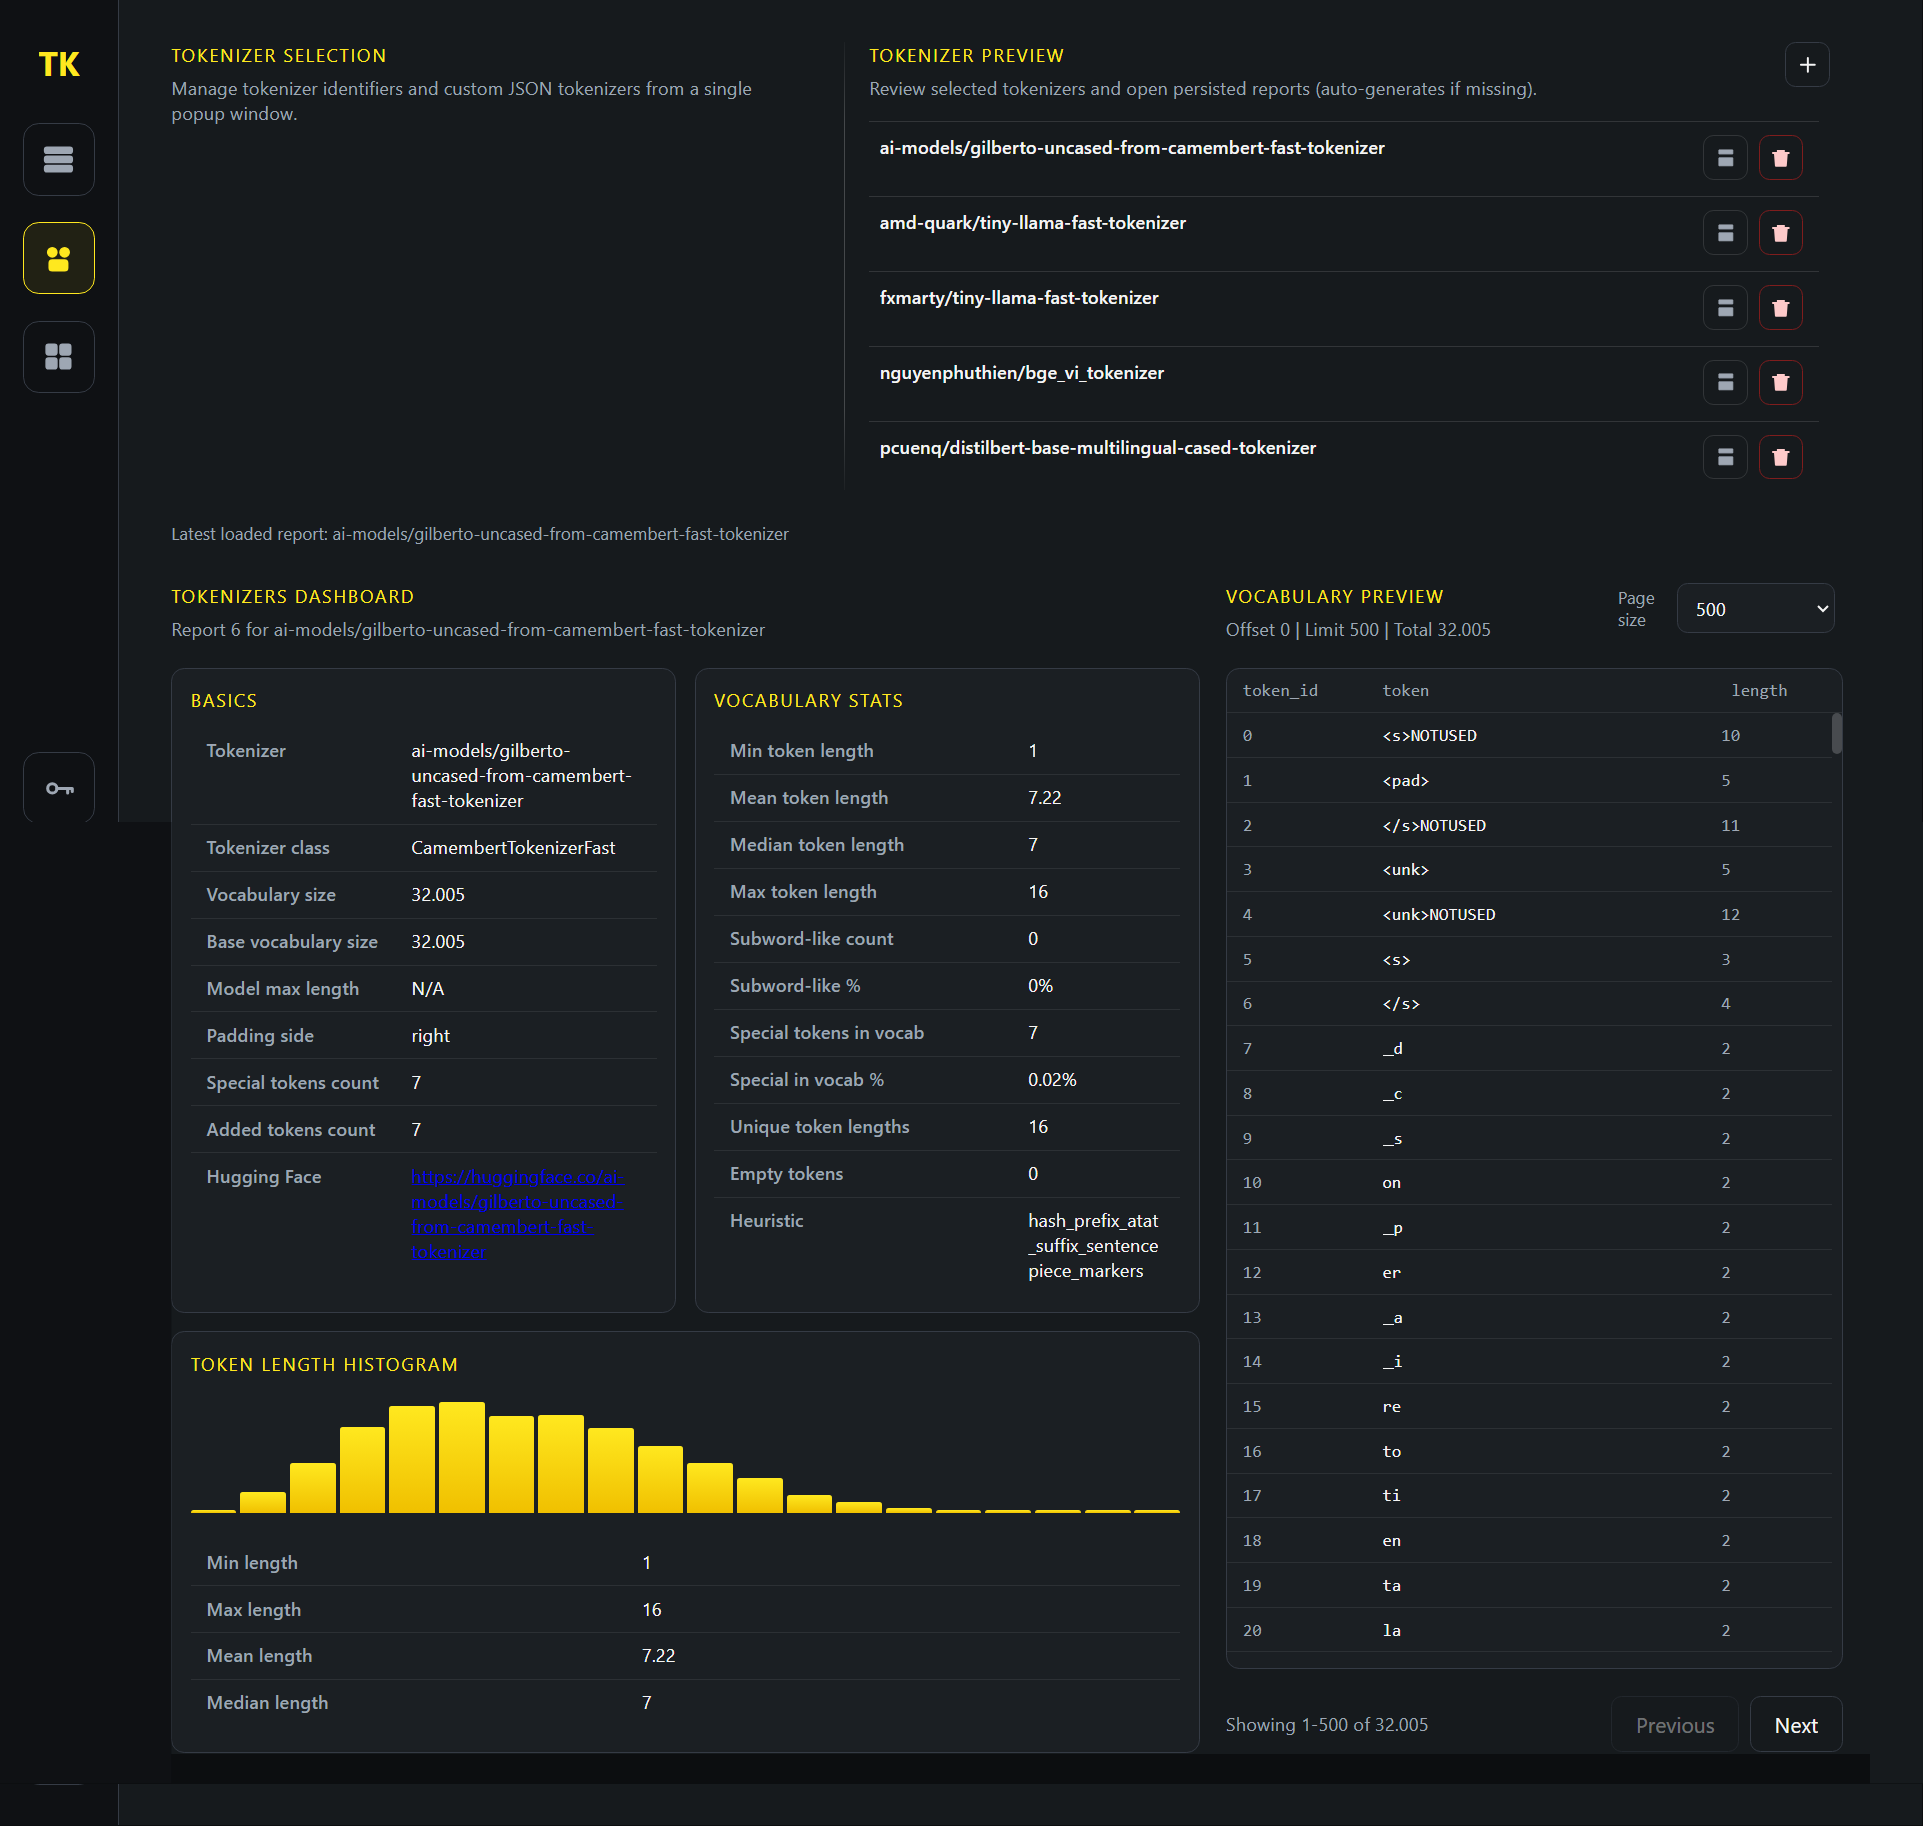
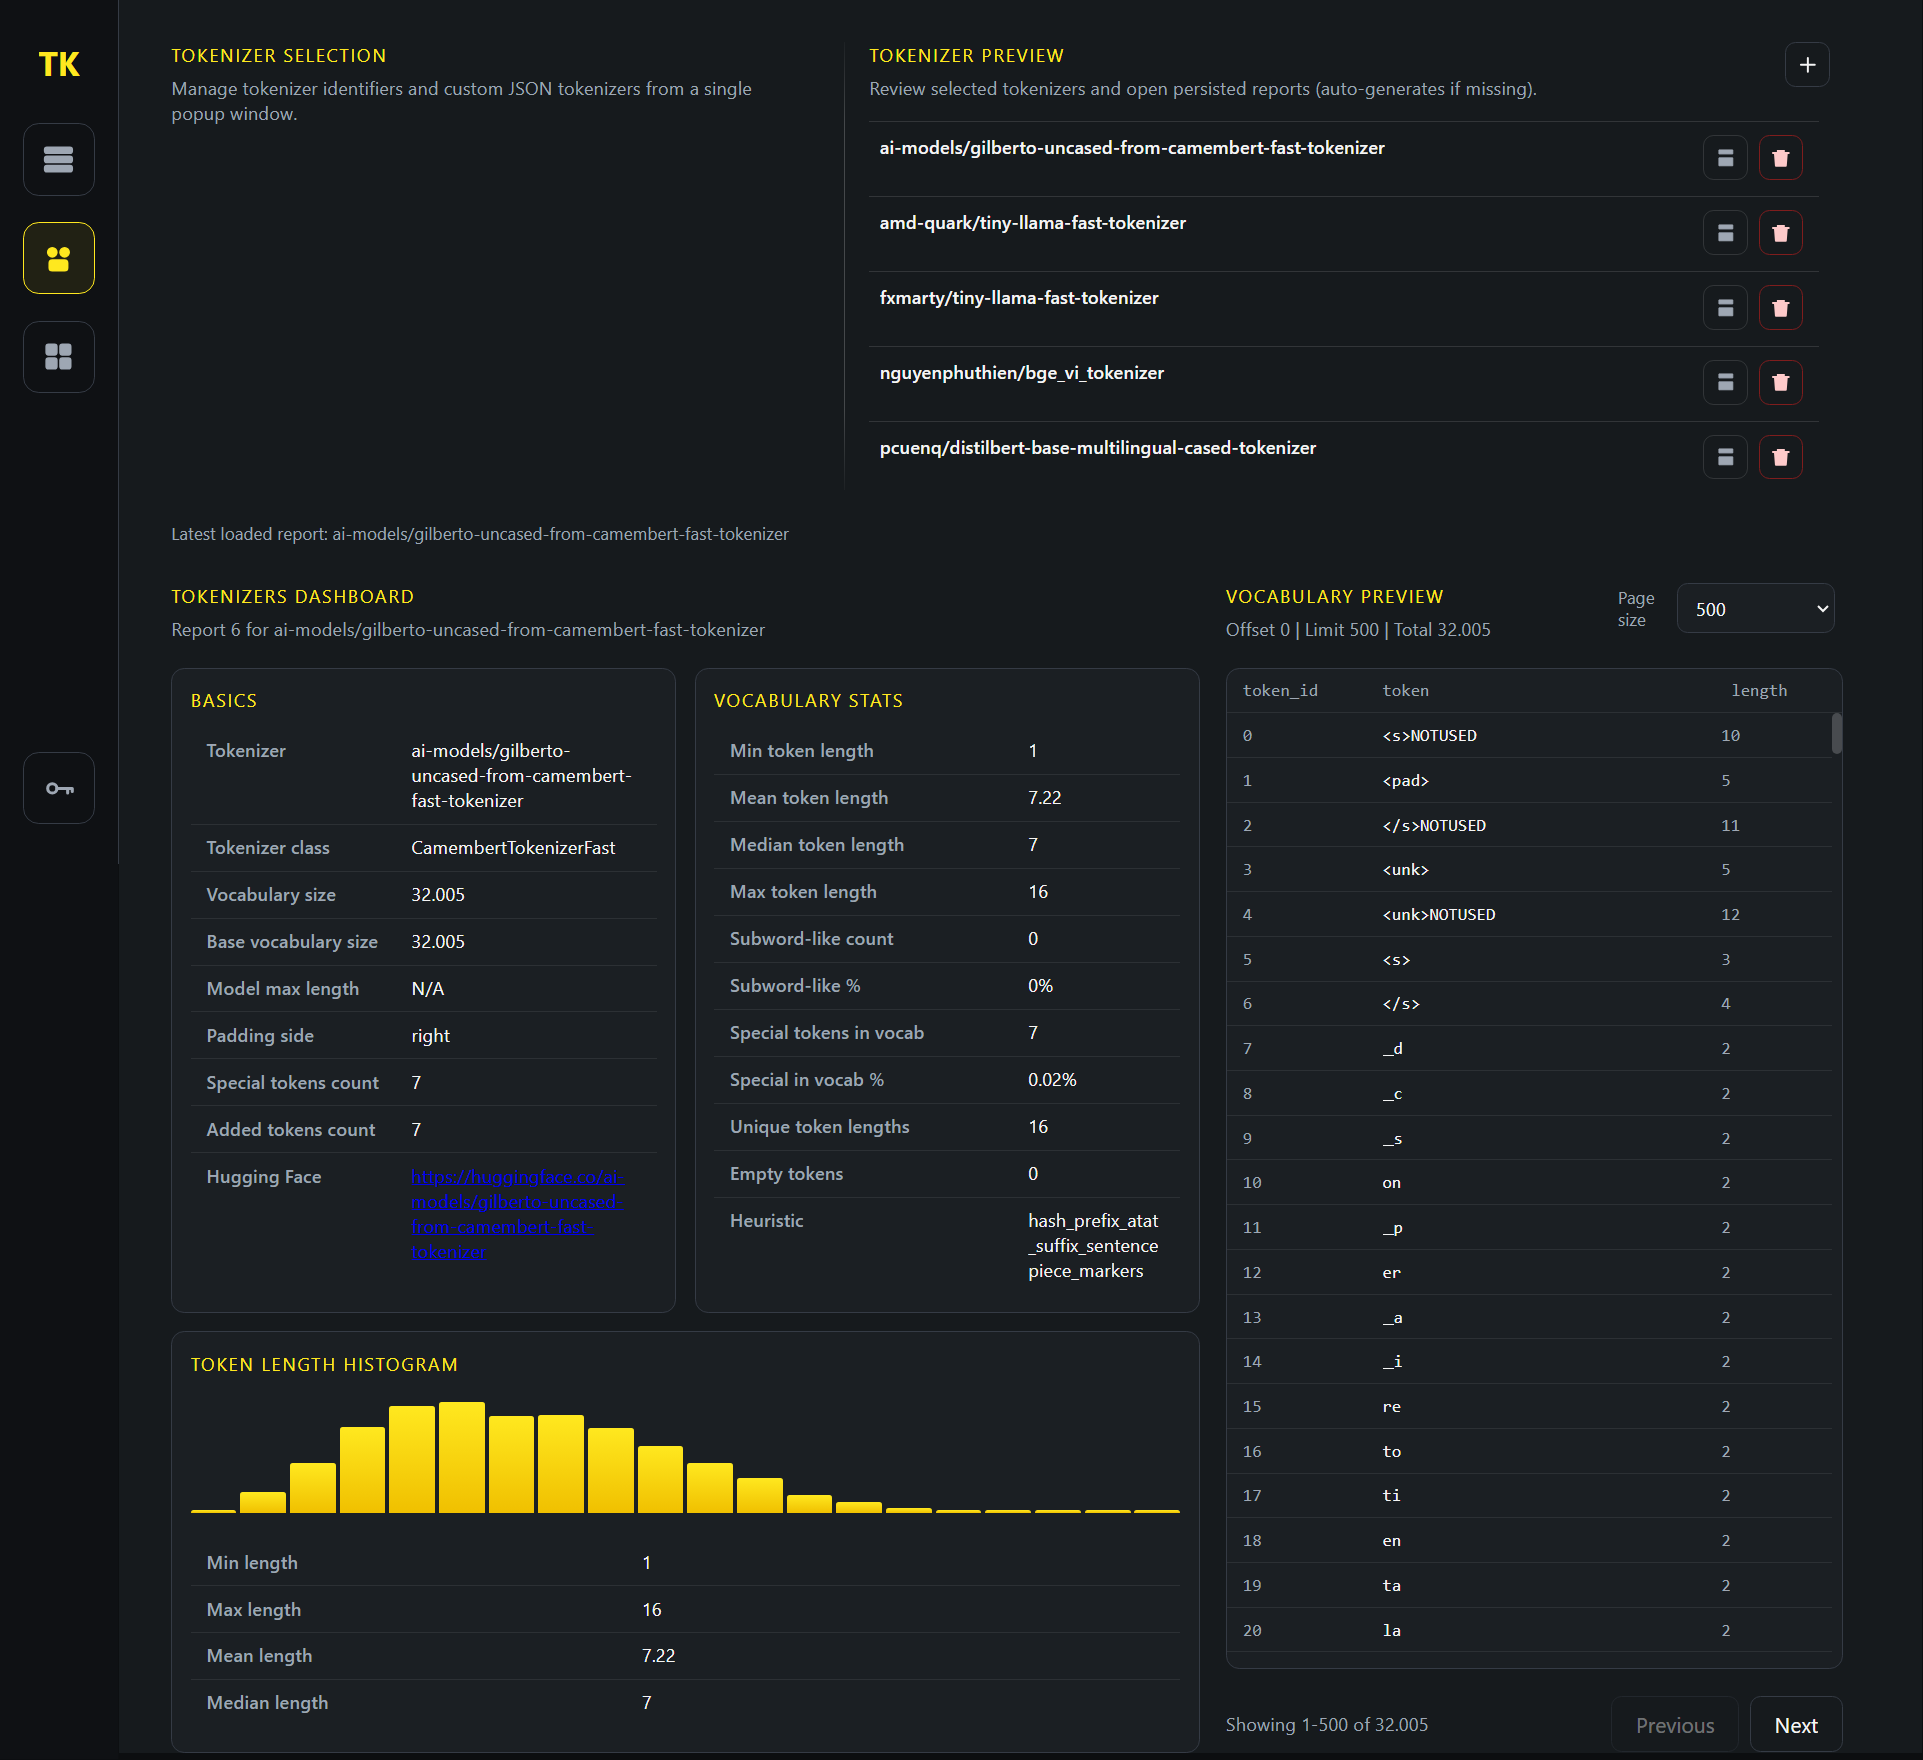
feat: Update README for clarity and improve CSS for better layout and visibility

diff --git a/TKBEN/client/src/App.css b/TKBEN/client/src/App.css
@@ -15,17 +15,14 @@
 .app-shell {
   display: flex;
   min-height: 100vh;
-  height: 100vh;
-  overflow: hidden;
+  overflow: visible;
   background: var(--color-bg);
   color: var(--color-text);
 }
 
 .sidebar {
   width: 90px;
-  height: 100vh;
-  position: sticky;
-  top: 0;
+  min-height: 100vh;
   flex-shrink: 0;
   background: #0f1114;
   border-right: 1px solid var(--color-border);
@@ -179,9 +176,8 @@
   flex: 1;
   display: flex;
   flex-direction: column;
-  height: 100vh;
-  min-height: 0;
-  overflow-y: auto;
+  min-height: 100vh;
+  overflow: visible;
   padding: 32px 40px;
   gap: 24px;
   min-width: 0;
@@ -210,7 +206,7 @@
 
 .page-scroll {
   width: 100%;
-  overflow: auto;
+  overflow: visible;
   min-width: 0;
 }
 

diff --git a/README.md b/README.md
@@ -1,7 +1,7 @@
 # TKBEN Tokenizer Benchmarker
 
 ## 1. Project Overview
-TKBEN is a web application for exploring and benchmarking open-source tokenizers against text datasets. It helps compare tokenizer speed, token counts, and coverage so you can choose a tokenizer for your NLP workload.
+TKBEN is a local web application for downloading/uploading text datasets, managing tokenizer assets, and benchmarking tokenizer behavior on real corpora.
 
 The system is split into a Python/FastAPI backend and a React frontend. The backend downloads tokenizers and datasets, runs benchmarks, and stores results in a local database. The frontend provides the UI for managing datasets, running benchmarks, and visualizing results.
 
@@ -9,96 +9,107 @@ The system is split into a Python/FastAPI backend and a React frontend. The back
 
 ## 2. Installation
 
-### 2.1 Windows (One Click Setup)
-Run `TKBEN/start_on_windows.bat`.
+### 2.1 Windows (One-Click Setup)
+Run:
 
-The launcher performs the following steps in order:
-- Downloads portable Python, uv, and Node.js into `TKBEN/resources/runtimes`.
-- Installs backend dependencies from `pyproject.toml`.
-- Installs frontend dependencies and builds the UI if needed.
-- Starts the backend and frontend servers and opens the UI in your browser.
+```bat
+TKBEN\start_on_windows.bat
+```
 
-First run downloads and builds the required runtimes and frontend assets. Subsequent runs reuse the local runtimes and only rebuild when missing.
-The setup is portable and only writes to the project directory.
+The launcher:
+1. Downloads portable Python, uv, and Node.js into `TKBEN/resources/runtimes`.
+2. Installs backend dependencies from `pyproject.toml` using `uv`.
+3. Installs/builds frontend dependencies when needed.
+4. Starts backend and frontend servers and opens the UI in your browser.
+
+First run performs runtime/bootstrap downloads. Subsequent runs reuse local artifacts when available.
 
 ### 2.2 macOS / Linux (Manual Setup)
-Manual setup is required on macOS and Linux.
-
 Prerequisites:
-- Python 3.14+ (to match the Windows launcher runtime)
+- Python 3.14+
 - Node.js 22+
 - `uv`
 
-Steps:
-1. From the repository root, install backend dependencies:
-   ```bash
-   uv sync --all-extras
-   ```
-2. Start the backend:
-   ```bash
-   uv run python -m uvicorn TKBEN.server.app:app --host 127.0.0.1 --port 8000
-   ```
-3. In a separate terminal, install and build the frontend:
-   ```bash
-   cd TKBEN/client
-   npm install
-   npm run build
-   npm run preview -- --host 127.0.0.1 --port 5173 --strictPort
-   ```
+Backend:
 
-## 4. How to Use
+```bash
+uv sync
+uv run python -m uvicorn TKBEN.server.app:app --host 127.0.0.1 --port 8000
+```
 
-### 4.1 Windows
-Launch `TKBEN/start_on_windows.bat`. The UI opens at `http://127.0.0.1:5173`.
-The backend API is available at `http://127.0.0.1:8000`, with documentation at `http://127.0.0.1:8000/docs`.
+Frontend (new terminal):
 
-### 4.2 macOS / Linux
-Start the backend and frontend with the commands from the manual setup section:
-- Backend: `uv run python -m uvicorn TKBEN.server.app:app --host 127.0.0.1 --port 8000`
-- Frontend: `npm run preview -- --host 127.0.0.1 --port 5173 --strictPort`
+```bash
+cd TKBEN/client
+npm install
+npm run dev -- --host 127.0.0.1 --port 5173 --strictPort
+```
 
-The UI is available at `http://127.0.0.1:5173`, and the backend API at `http://127.0.0.1:8000` (docs at `http://127.0.0.1:8000/docs`).
+## 3. How to Use
 
-### 4.3 Using the Application
-Typical workflow:
-- Load a dataset by downloading from Hugging Face or uploading a CSV/XLS/XLSX file.
-- Scan and select tokenizers to benchmark.
-- Run benchmarks and review token counts, throughput, and other metrics.
-- Inspect charts and tables, and keep results for later comparisons.
+### 3.1 Windows
+Run `TKBEN/start_on_windows.bat`.
+- UI: `http://127.0.0.1:5173`
+- API: `http://127.0.0.1:8000`
+- API docs: `http://127.0.0.1:8000/docs`
 
-**Dataset management screen**:
+### 3.2 macOS / Linux
+After starting backend/frontend manually:
+- UI: `http://127.0.0.1:5173`
+- API: `http://127.0.0.1:8000`
+- API docs: `http://127.0.0.1:8000/docs`
 
-![Dataset management and download/upload](assets/figures/dataset_page.png)
+### 3.3 Typical Workflow
+Use the app left-to-right as a pipeline: prepare data, inspect tokenizer behavior, then run cross-tokenizer benchmarks.
 
-**Tokenizers management screen**:
+1. Open **Datasets** (`/dataset`)
+- Add data from Hugging Face (preset or manual dataset/config) or upload local CSV/XLS/XLSX files.
+- Select a persisted dataset from the preview list to make it the active working dataset.
+- Run the validation/analysis workflow with metric categories, sampling, and optional filters.
+- Reopen the latest persisted dataset report to inspect corpus statistics and charts.
 
-![Database browser](assets/figures/database_browser.png)
+![Dataset workspace](./assets/figures/dataset_page.png)
 
+2. Open **Tokenizers** (`/tokenizers`)
+- Scan Hugging Face tokenizer IDs (HF access key required), then download selected tokenizers locally.
+- Optionally upload a custom `tokenizer.json` for compatibility checks.
+- Open or generate tokenizer reports and inspect vocabulary statistics, histograms, and paged token tables.
+- Use this page to decide which tokenizers should move to benchmark runs.
 
-**Benchmark results screen**:
+![Tokenizer workspace](./assets/figures/tokenizer_page.png)
 
-![Benchmark charts and metrics](assets/figures/benchmarks_page.png)
+3. Open **Cross Benchmark** (`/cross-benchmark`)
+- Start the benchmark wizard and choose run name, dataset, tokenizers, and metric set.
+- Run benchmark jobs and reopen persisted reports from the report selector.
+- Compare tokenizer performance across throughput, vocabulary behavior, quality rates, and distribution metrics.
+- Use the per-tokenizer drilldowns to identify tradeoffs before final selection.
 
+![Cross benchmark workspace](./assets/figures/benchmarks_page.png)
 
+## 4. Setup and Maintenance
+Run:
 
-## 5. Setup and Maintenance
-Run `TKBEN/setup_and_maintenance.bat` and choose an action:
-- Remove logs: deletes log files from `TKBEN/resources/logs`.
-- Uninstall app: removes local runtimes, caches, virtual environment, frontend dependencies, and built assets.
-- Initialize database: recreates or prepares the local database used by the backend.
+```bat
+TKBEN\setup_and_maintenance.bat
+```
 
-## 6. Resources
-- database: local SQLite database file `TKBEN/resources/database/sqlite.db` storing datasets and benchmark results.
-- datasets: downloaded or uploaded datasets used for benchmarking, stored under `TKBEN/resources/datasets`.
-- logs: backend and launcher logs stored in `TKBEN/resources/logs`.
-- runtimes: portable Python/uv/Node.js used by the Windows launcher, stored in `TKBEN/resources/runtimes`.
-- templates: sample files such as a starter `.env` in `TKBEN/resources/templates`.
+Menu actions:
+- Remove logs: deletes `*.log` files under `TKBEN/resources/logs`.
+- Uninstall app: removes local runtime/dependency/build artifacts (portable runtimes, `.venv`, frontend `node_modules`, `dist`, lock artifacts).
+- Initialize database: executes `TKBEN/scripts/initialize_database.py`.
 
-## 7. Configuration
+## 5. Resources
+- `TKBEN/resources/database.db`: default embedded SQLite database file.
+- `TKBEN/resources/sources/datasets`: Hugging Face/download cache and dataset source artifacts.
+- `TKBEN/resources/sources/tokenizers`: cached tokenizer files used for local loading.
+- `TKBEN/resources/logs`: launcher/backend logs.
+- `TKBEN/resources/runtimes`: portable Windows runtimes (Python, uv, Node.js).
+- `TKBEN/resources/templates`: reserved template assets.
+
+## 6. Configuration
 Backend configuration is defined in `TKBEN/settings/configurations.json` and can be overridden via environment variables in `TKBEN/settings/.env` (loaded on startup).
 Frontend hosting (host/port) is controlled by the Windows launcher and Vite using the same `TKBEN/settings/.env` file; there is no separate frontend configuration file.
 
 
 ## 8. License
-This project is licensed under the MIT license. See `LICENSE` for details.
-
+This project is licensed under the MIT License. See `LICENSE` for details.
